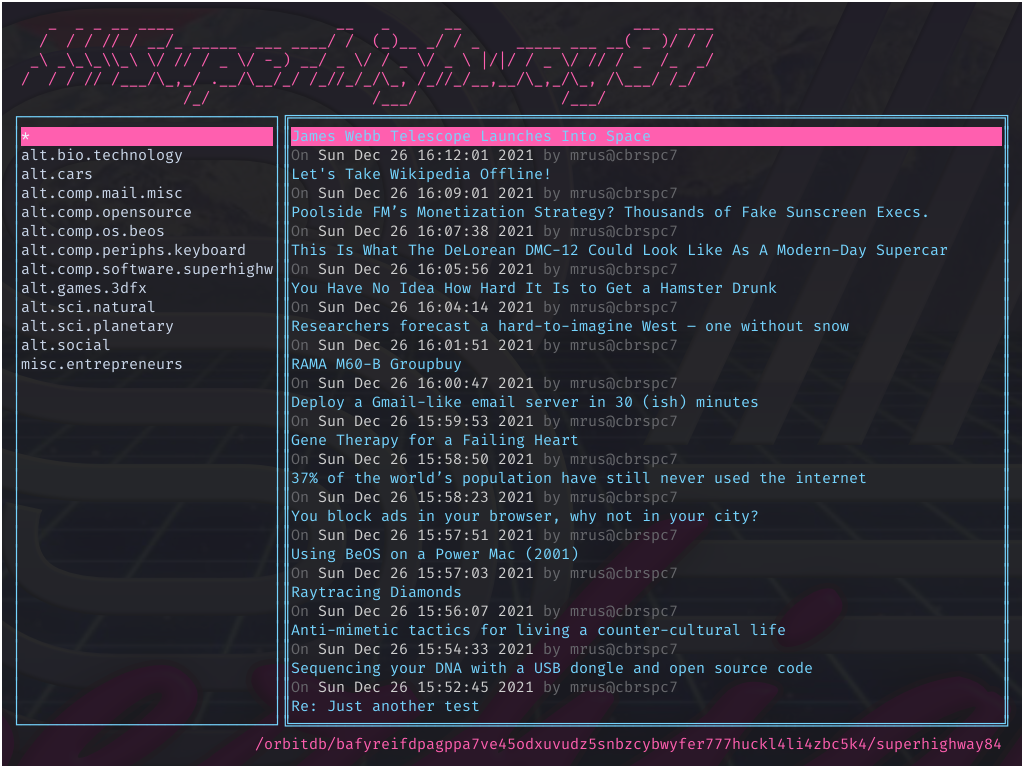
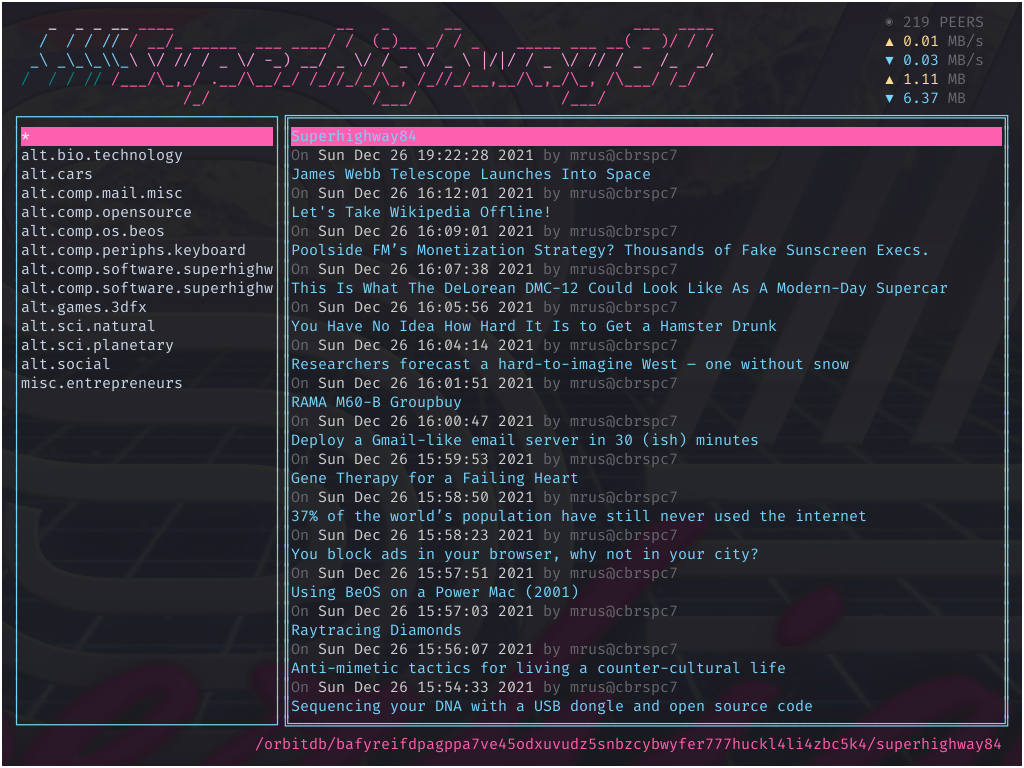
Updated screenshot01 and cleaned formatting

diff --git a/tui/mainscreen.go b/tui/mainscreen.go
@@ -107,11 +107,11 @@ func(t *TUI) NewMainscreen() (*Mainscreen) {
 		SetColumns(30, 0, 14).
 		SetBorders(false).
 		AddItem(mainscreen.Header, 0, 0, 1, 2, 0, 0, false).
-    AddItem(mainscreen.Stats, 0, 2, 1, 1, 0, 0, false).
+    AddItem(mainscreen.Stats,  0, 2, 1, 1, 0, 0, false).
 		AddItem(mainscreen.Footer, 2, 0, 1, 3, 0, 0, false)
 
 	mainscreen.Canvas.
-    AddItem(mainscreen.Groups, 1, 0, 1, 1, 0, 0, false).
+    AddItem(mainscreen.Groups,   1, 0, 1, 1, 0, 0, false).
 		AddItem(mainscreen.Articles, 1, 1, 1, 2, 0, 0, false)
 
   return mainscreen
@@ -122,14 +122,20 @@ func (mainscreen *Mainscreen) SetFooter(text string) {
 }
 
 func (mainscreen *Mainscreen) SetStats(stats map[string]int64) {
-  peers := stats["peers"]
-  totalIn := float64(stats["total_in"]) / 1024.0 / 1024.0
+  peers    := stats["peers"]
+  totalIn  := float64(stats["total_in"])  / 1024.0 / 1024.0
   totalOut := float64(stats["total_out"]) / 1024.0 / 1024.0
-  rateIn := float64(stats["rate_in"]) / 1024.0 / 1024.0
-  rateOut := float64(stats["rate_out"]) / 1024.0 / 1024.0
+  rateIn   := float64(stats["rate_in"])   / 1024.0 / 1024.0
+  rateOut  := float64(stats["rate_out"])  / 1024.0 / 1024.0
 
   mainscreen.Stats.SetText(
-    fmt.Sprintf(STATS_TEMPLATE, peers, rateOut, rateIn, totalOut, totalIn),
+    fmt.Sprintf(STATS_TEMPLATE,
+      peers,
+      rateOut,
+      rateIn,
+      totalOut,
+      totalIn,
+    ),
   )
 }
 
